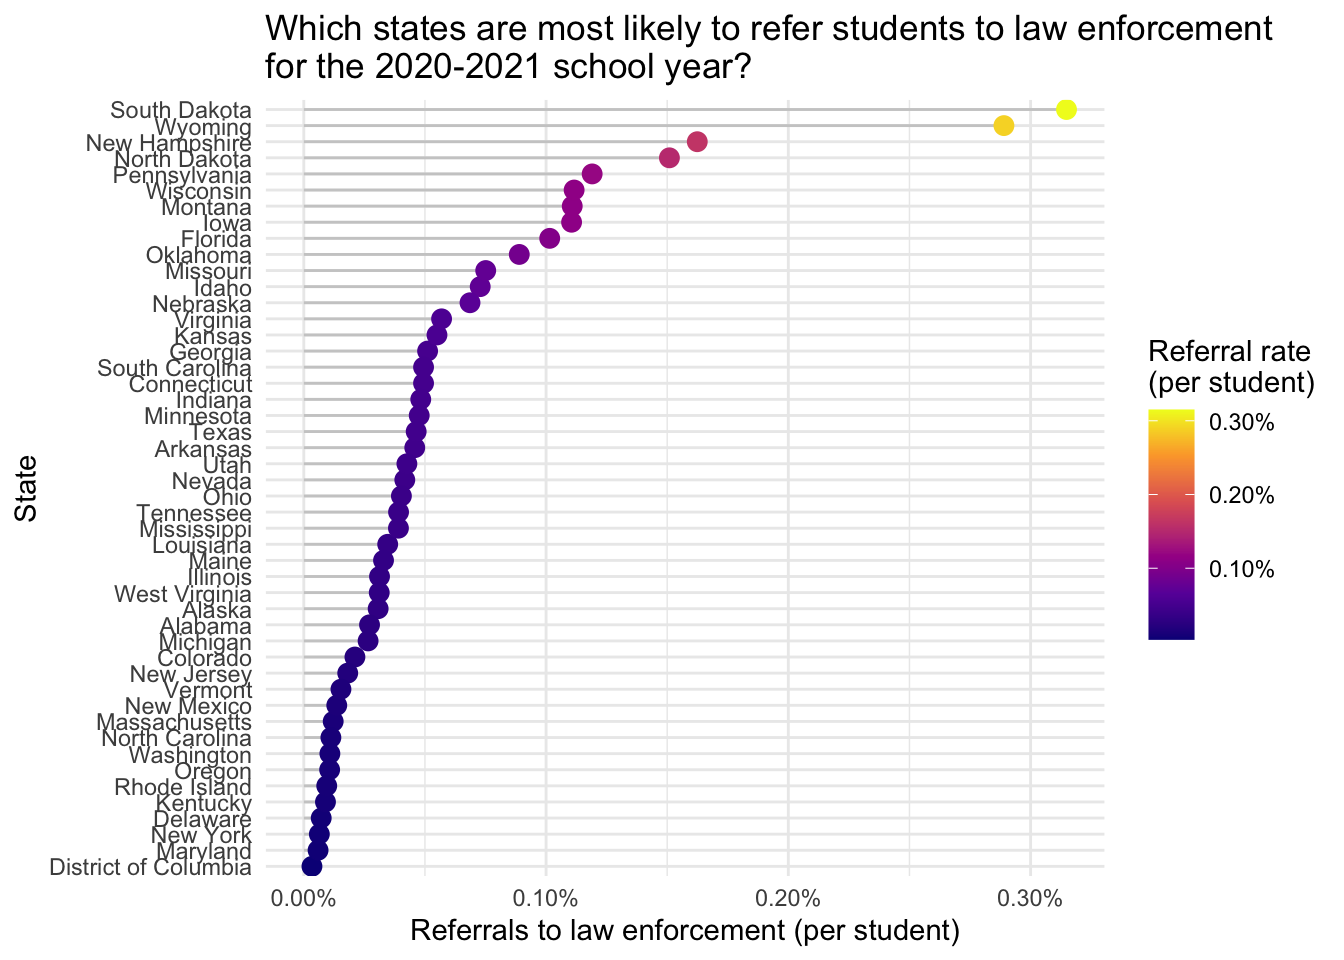
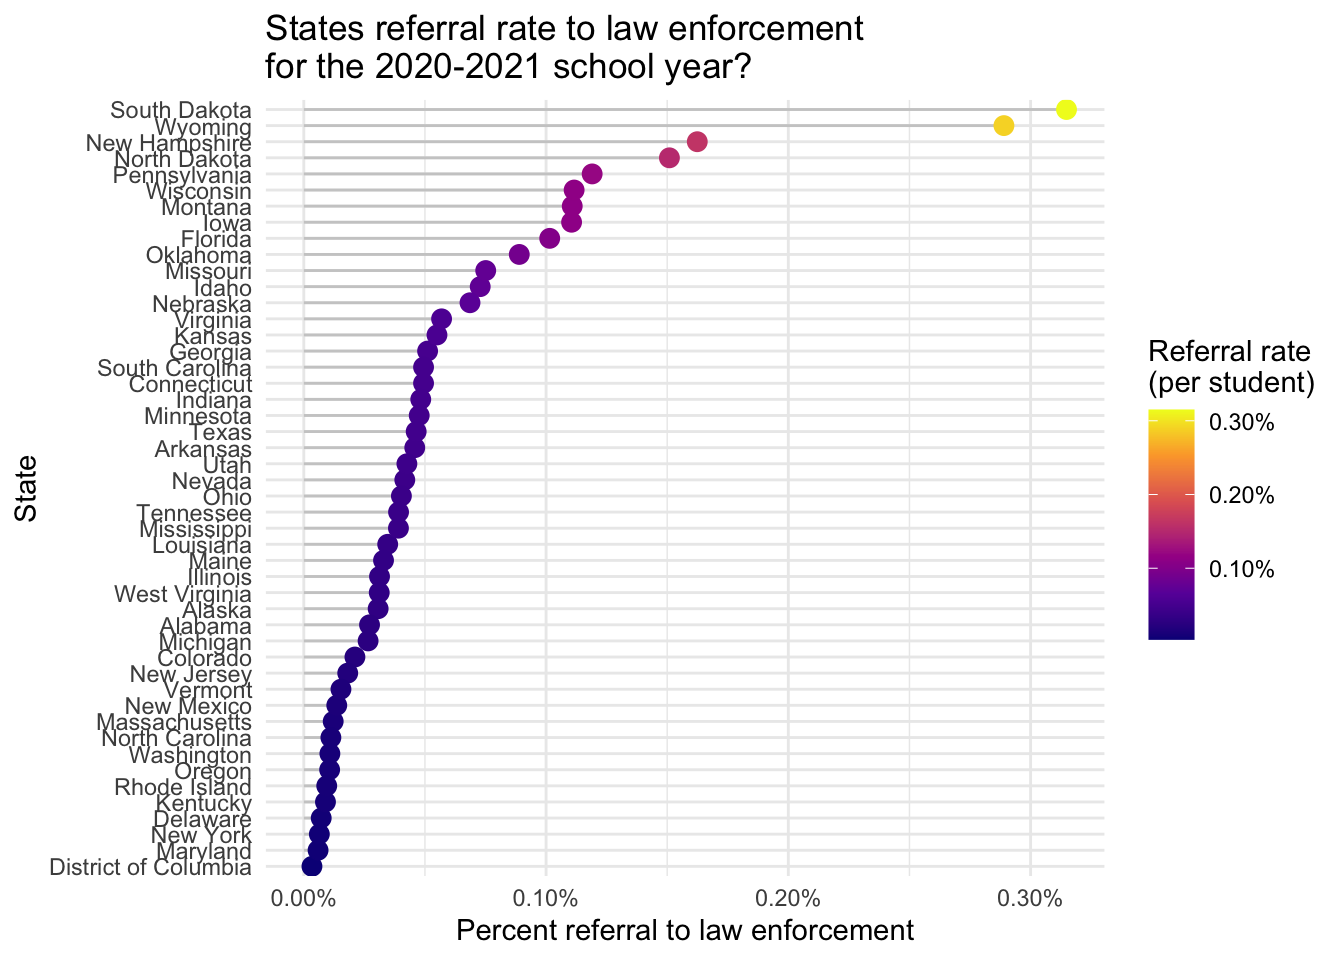
fixing data.qmd

Changed region(s): [[0.1875, 0.0, 0.9375, 0.0625], [0.3125, 0.9375, 0.7188, 1.0]]

diff --git a/docs/results.html b/docs/results.html
@@ -202,7 +202,7 @@ pre > code.sourceCode > span > a:first-child::before { text-decoration: underlin
 </header>
 
 
-<p>In order to contextualize standard disciplinary rates across the country and spot outlier states, the data was converted from raw discipline counts into an overall proportion: total disciplinary actions divided by total enrollment. The analysis below is standardized in this way so that states would be directly comparable. For example this would account for states like Texas which has more disciplinary actions than a small state like Vermont, simply because it has more students. If the data was not standardized in this way the overall interpretation would have been heavily skewed or be an inaccurate representation.</p>
+<p>In order to contextualize standard disciplinary rates across the country and spot outlier states, the data was converted from raw discipline counts into an overall proportion: total disciplinary actions divided by total enrollment. The analysis below is standardized in this way so that states would be directly comparable. For example this would account for states like Texas which have more disciplinary actions than smaller states simply because it has more students. If the data was not standardized in this way the overall interpretation would have been heavily skewed or be an inaccurate representation.</p>
 <div class="cell">
 <details class="code-fold">
 <summary>Code</summary>
@@ -546,7 +546,7 @@ pre > code.sourceCode > span > a:first-child::before { text-decoration: underlin
 </div>
 </div>
 </div>
-<p>We can observe this Cleveland Cot Plot was created to further understand the exact states and their corresponding disciplinary rates. From the plot we can see that there are clear outliers among the states. Arkansas, Mississippi, South Carolina, Louisana and Alabama all have the highest incidences of disciplinary actions. In contrast Hawaii, Puerto Rico, the District of Columbia, and Maryland have rates close to zero, indicating that formal disciplinary actions are relatively rare in those states. These rates cannot be directly interpreted as “10% of students in Arkansas have experienced a disciplinary measure” as the data reflects total actions per category which could reflect multiple disciplinary actions for a single student. It also appears states cluster around the 2–5% disciplinary action rate, this is supported by the histogram above.</p>
+<p>We can observe this Cleveland Dot Plot the exact disciplinary rates by state. From the plot we can see that there are clear outliers among the states. Arkansas, Mississippi, South Carolina, Louisana and Alabama all have the highest incidences of disciplinary actions. In contrast Hawaii, Puerto Rico, the District of Columbia, and Maryland have rates close to zero, indicating that formal disciplinary actions are relatively rare in those states. These rates cannot be directly interpreted as “10% of students in Arkansas have experienced a disciplinary measure” as the data reflects total actions per category which could reflect multiple disciplinary actions for a single student. It also appears that states cluster around the 2–5% rate, and anything outside these ranges could be notable.</p>
 <div class="cell">
 <details class="code-fold">
 <summary>Code</summary>
@@ -618,7 +618,7 @@ pre > code.sourceCode > span > a:first-child::before { text-decoration: underlin
 </div>
 </div>
 </div>
-<p>This choropleth map helps to bridge the gap between understanding geographical patterns and enforcement of disciplinary actions. This helps to understand how student experiences vary across states and regions. It appears that Midwestern states have higher rates of disciplinary measures overall compared to other parts of the country. Mapping these data in this way can show how rates cluster in parts of the country. From this we can gather if these trends correlate with broader social or political leanings.</p>
+<p>This choropleth map helps to bridge the gap between understanding geographical patterns and enforcement of disciplinary actions. This helps to understand how student experiences vary across states and regions. It appears that Midwestern states have higher rates of disciplinary measures overall compared to other parts of the country. Mapping these data in this way can show how rates cluster in parts of the country and from this we can gather if these trends correlate with broader social or political leanings.</p>
 <div class="cell">
 <details class="code-fold">
 <summary>Code</summary>
@@ -734,7 +734,7 @@ pre > code.sourceCode > span > a:first-child::before { text-decoration: underlin
 </div>
 </div>
 </div>
-<p>When the disciplinary action rate map for 2020-2021 and the results of the 2020 presindential election are juxtaposed, a clear visual pattern emerges. It appears that states that lean more conservatively, shown in deeper red, tend to correspond with states that exhibit higher disciplinary action rates. In contrast many states that voted more liberally, shown in blue, align with lower disciplinary rates. Although this correlation cannot establish causality, the geographic overlap between political leanings and disciplinary action rates is striking.</p>
+<p>When the disciplinary action rate map for 2020-2021 and the results of the 2020 presidential election are juxtaposed, a clear visual pattern emerges. It appears that states that lean more conservatively, shown in deeper red, tend to correspond with states that exhibit higher disciplinary action rates. In contrast many states that voted more liberally, shown in blue, align with lower disciplinary rates. Although this correlation cannot establish causality, the geographic overlap between political leanings and disciplinary action rates is visually striking.</p>
 <div class="cell">
 <details class="code-fold">
 <summary>Code</summary>
@@ -796,7 +796,7 @@ pre > code.sourceCode > span > a:first-child::before { text-decoration: underlin
 <span id="cb9-56"><a href="#cb9-56" aria-hidden="true" tabindex="-1"></a>  ) <span class="sc">+</span></span>
 <span id="cb9-57"><a href="#cb9-57" aria-hidden="true" tabindex="-1"></a>  <span class="fu">labs</span>(</span>
 <span id="cb9-58"><a href="#cb9-58" aria-hidden="true" tabindex="-1"></a>    <span class="at">title =</span> <span class="st">"2020-2021 Disciplinary Action Rate vs 2020 Political Landscape"</span>,</span>
-<span id="cb9-59"><a href="#cb9-59" aria-hidden="true" tabindex="-1"></a>    <span class="at">x =</span> <span class="st">"Disciplinary action rate (actions per student)"</span>,</span>
+<span id="cb9-59"><a href="#cb9-59" aria-hidden="true" tabindex="-1"></a>    <span class="at">x =</span> <span class="st">"Disciplinary Action Rate (actions per student)"</span>,</span>
 <span id="cb9-60"><a href="#cb9-60" aria-hidden="true" tabindex="-1"></a>    <span class="at">y =</span> <span class="st">"Vote Share (Republican/Democrat)"</span></span>
 <span id="cb9-61"><a href="#cb9-61" aria-hidden="true" tabindex="-1"></a>  ) <span class="sc">+</span></span>
 <span id="cb9-62"><a href="#cb9-62" aria-hidden="true" tabindex="-1"></a>  <span class="fu">theme_minimal</span>()</span></code></pre></div><button title="Copy to Clipboard" class="code-copy-button"><i class="bi"></i></button></div>
@@ -875,8 +875,8 @@ pre > code.sourceCode > span > a:first-child::before { text-decoration: underlin
 </div>
 </div>
 </div>
-<p>Diving deeper into studying what racial biases could exist in rate of disciplinary measures given, a choropleth graph depicting the disciplinary rates faceted by race was created. We can see a clear trend emerge that American Indian (Native American), Alaska Native, Black and Multiracial students experience notably higher rates of disciplinary measures.</p>
-<p>Arkansas stands out as one of the states with consistently high disciplinary action rates, regardless of which race. On the faceted maps, Arkansas is repeatedly shaded in the upper end of the scale, indicating that students in the state experience disciplinary actions at disproportionately high levels compared with much of the country.</p>
+<p>Diving deeper into studying what racial biases could exist in rates of disciplinary measures given, a choropleth graph depicting the disciplinary rates faceted by race was created. We can see a clear trend emerge that American Indian (Native American), Alaska Native, Black and Multiracial students experience notably higher rates of disciplinary measures across the country.</p>
+<p>Arkansas stands out as one of the states with consistently high disciplinary action rates, regardless of which race. On the faceted maps, Arkansas is repeatedly shaded in the upper end of the scale, indicating that students in the state experience disciplinary actions at disproportionately high levels compared with much of the country. South Dakota and Nebraska also appear to disproportionately discipline black students at a higher rate compared to the rest of the country.</p>
 <div class="cell">
 <details class="code-fold">
 <summary>Code</summary>
@@ -1058,8 +1058,8 @@ pre > code.sourceCode > span > a:first-child::before { text-decoration: underlin
 <span id="cb12-49"><a href="#cb12-49" aria-hidden="true" tabindex="-1"></a>  ) <span class="sc">+</span></span>
 <span id="cb12-50"><a href="#cb12-50" aria-hidden="true" tabindex="-1"></a>  <span class="fu">labs</span>(</span>
 <span id="cb12-51"><a href="#cb12-51" aria-hidden="true" tabindex="-1"></a>    <span class="at">x =</span> <span class="st">"State"</span>,</span>
-<span id="cb12-52"><a href="#cb12-52" aria-hidden="true" tabindex="-1"></a>    <span class="at">y =</span> <span class="st">"Referrals to law enforcement (per student)"</span>,</span>
-<span id="cb12-53"><a href="#cb12-53" aria-hidden="true" tabindex="-1"></a>    <span class="at">title =</span> <span class="st">"Which states are most likely to refer students to law enforcement </span><span class="sc">\n</span><span class="st">for the 2020-2021 school year?"</span></span>
+<span id="cb12-52"><a href="#cb12-52" aria-hidden="true" tabindex="-1"></a>    <span class="at">y =</span> <span class="st">"Percent referral to law enforcement"</span>,</span>
+<span id="cb12-53"><a href="#cb12-53" aria-hidden="true" tabindex="-1"></a>    <span class="at">title =</span> <span class="st">"States referral rate to law enforcement </span><span class="sc">\n</span><span class="st">for the 2020-2021 school year?"</span></span>
 <span id="cb12-54"><a href="#cb12-54" aria-hidden="true" tabindex="-1"></a>  ) <span class="sc">+</span></span>
 <span id="cb12-55"><a href="#cb12-55" aria-hidden="true" tabindex="-1"></a>  <span class="fu">theme_minimal</span>() <span class="sc">+</span></span>
 <span id="cb12-56"><a href="#cb12-56" aria-hidden="true" tabindex="-1"></a>  <span class="fu">theme</span>(</span>
@@ -1074,7 +1074,7 @@ pre > code.sourceCode > span > a:first-child::before { text-decoration: underlin
 </div>
 </div>
 </div>
-<p>Taking a closer look at rates of referral to law enforcement reveal interesting trends, a subset of the total disciplinary measures, most states maintain a relatively low rate of referrals to law enforcement. There are some outlier states such as South Dakota and Wyoming. Interestingly these two states do not have the highest rates of disciplinary measures. But of the actions taken a higher percentage result in referral to law enforcement. This pattern potentially suggests that referrals to law enforcement are not evenly distributed across the country nor are they correlated to volume disciplinary measures overall.</p>
+<p>Taking a closer look at rates of referral to law enforcement reveal interesting trends, a subset of the total disciplinary measures, most states maintain a relatively low rate of referrals to law enforcement. There are some outlier states such as South Dakota and Wyoming. Interestingly these two states do not have the highest rates of disciplinary measures. But of the actions taken a higher percentage result in referral to law enforcement. This pattern potentially suggests that referrals to law enforcement are not evenly distributed across the country nor are they correlated to volume disciplinary measures overall. In addtion it is worth noting that not only does South Dakota appear in the previous faceted graphs for having high rates of enforcing disciplinary action on black students, but also high overall rates of referrals to law enforcement.</p>
 <div class="cell">
 <details class="code-fold">
 <summary>Code</summary>

diff --git a/docs/data.html b/docs/data.html
@@ -349,7 +349,7 @@ pre > code.sourceCode > span > a:first-child::before { text-decoration: underlin
 </div>
 </div>
 </div>
-<p>This widespread absence of California’s data is evident in choropleth maps throughout the results section. The state’s incomplete data highlights an important limitation of the CRDC dataset; inconsistent or incomplete reporting, which in turn affects nationwide comparisons.</p>
+<p>This bar graph shows where the gaps in the data are; we can see that California and Texas as missing some or all of the data. Missing data was often represented as negative numbers or blank strings in this dataset and was accounted for during the data analysis. In addition the widespread absence of California’s data is evident in the choropleth maps throughout the results section. The states’ incomplete data highlights an important limitation of the CRDC dataset that inconsistencies or incomplete reporting could affect nationwide comparisons.</p>
 <div class="cell">
 <details class="code-fold">
 <summary>Code</summary>
@@ -441,7 +441,7 @@ pre > code.sourceCode > span > a:first-child::before { text-decoration: underlin
 </div>
 </div>
 </div>
-<p>This figure shows a clear positive relationship between a state’s total student enrollment and the number of missing values in its raw CRDC file. States with more students also tend to have more missing entries. Texas has the most enrollment and also the most missing data which seems expected.</p>
+<p>This figure shows a clear positive relationship between a state’s total student enrollment and the number of missing values in its raw CRDC file. States with more students also tend to have more missing entries. This relationship feels logical, the more data associated with the state the more likey is it to have holes in the data.</p>
 
 
 </section>
